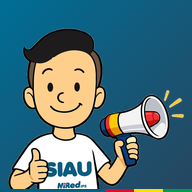
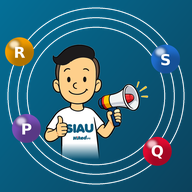
Menú móvil más ancho y sobre todo el contenido, mejor aprovechamiento de pantalla, íconos e imagen de la app con la mascota y las PQRS como planetas
Claude-Session: https://claude.ai/code/session_01UZqNQKJ9HuUnEShqkJ44x7

diff --git a/entrega/portal_index.html b/entrega/portal_index.html
@@ -4,7 +4,7 @@
 <meta charset="utf-8">
 <meta name="viewport" content="width=device-width, initial-scale=1, viewport-fit=cover">
 <meta name="color-scheme" content="light dark">
[2 lines of base64/hex data omitted]
 <link rel="apple-touch-icon" href="apple-touch-icon.png">
 <title>Gestión de PQRS · MiRed IPS</title>
 <script>
@@ -3666,6 +3666,7 @@ document.addEventListener("DOMContentLoaded", function(){
 <meta name="referrer" content="no-referrer">
 <meta name="robots" content="noindex,nofollow">
 <meta name="theme-color" content="#006081">
+<meta property="og:type" content="website"><meta property="og:title" content="Sistema de PQRS · SIAU MiRed IPS"><meta property="og:description" content="Radicación y gestión de peticiones, quejas, reclamos y sugerencias"><meta property="og:image" content="https://rivcarii.github.io/DEFINIDO/portal/og.png"><meta name="twitter:card" content="summary_large_image">
 <link rel="manifest" href="manifest.webmanifest">
 <link rel="apple-touch-icon" href="apple-touch-icon.png">
 <meta name="mobile-web-app-capable" content="yes"><meta name="apple-mobile-web-app-capable" content="yes"><meta name="apple-mobile-web-app-title" content="PQRS SIAU"><meta name="apple-mobile-web-app-status-bar-style" content="black-translucent">
@@ -3880,6 +3881,33 @@ html[data-tema="oscuro"] .kmini .ico,html[data-tema="oscuro"] .accion .ico{filte
 html[data-tema="oscuro"] .acceso-pie,html[data-tema="oscuro"] .acceso-marca{color:#fff}
 html[data-tema="oscuro"] .modal-fondo,html[data-tema="oscuro"] .velo{background:rgba(0,0,0,.6)}
 
+
+/* ===== v8.7.2 · menú lateral y proporciones en teléfonos ===== */
+.orb i,.solar b::after{background-image:radial-gradient(circle at 32% 26%,rgba(255,255,255,.60),rgba(255,255,255,0) 46%),radial-gradient(circle at 72% 80%,rgba(0,0,0,.30),rgba(0,0,0,0) 62%)}
+.orb i{box-shadow:inset -3px -4px 8px rgba(0,0,0,.22),0 8px 18px rgba(0,20,30,.30)}
+@media(max-width:1000px){
+  .lateral{z-index:96!important;left:max(8px,env(safe-area-inset-left,0px))!important;top:max(8px,env(safe-area-inset-top,0px))!important;bottom:max(8px,env(safe-area-inset-bottom,0px))!important;
+    width:min(400px,calc(100vw - 16px))!important;padding-top:18px;overflow-y:auto;-webkit-overflow-scrolling:touch}
+  .velo-lat{z-index:90!important}
+  html:has(.lateral.abierto) .top,html:has(.lateral.abierto) .tabbar,html:has(.lateral.abierto) .barra-guardar,html:has(.lateral.abierto) #cargaPill{opacity:0;pointer-events:none}
+  .lat-marca{padding:2px 6px 10px}.lat-marca .lockup{flex-wrap:nowrap;justify-content:flex-start;gap:12px}
+  .lat-marca .lockup .lk-mired{height:30px}.lat-marca .lockup .lk-calidad{height:36px}
+  #menu button{padding:12px 14px;font-size:16px}
+  /* más pantalla para el contenido */
+  main{padding-left:max(10px,env(safe-area-inset-left,0px))!important;padding-right:max(10px,env(safe-area-inset-right,0px))!important;padding-top:14px!important}
+  .top{margin-left:max(8px,env(safe-area-inset-left,0px))!important;margin-right:max(8px,env(safe-area-inset-right,0px))!important;top:max(8px,env(safe-area-inset-top,0px))!important}
+  .tabbar{left:max(10px,env(safe-area-inset-left,0px))!important;right:max(10px,env(safe-area-inset-right,0px))!important}
+  .card,.bi-card,.filtros{padding:14px}
+}
+@media(max-width:430px){
+  main{padding-left:max(8px,env(safe-area-inset-left,0px))!important;padding-right:max(8px,env(safe-area-inset-right,0px))!important}
+  h2.vista{font-size:25px}
+  .hero-saludo{padding:18px}
+}
+@media(min-width:701px) and (max-width:1000px){
+  main{max-width:900px;padding-left:20px!important;padding-right:20px!important}
+  .lateral{width:min(380px,50vw)!important}
+}
 @media(max-width:700px){#splash .sp-sistema{--d:120px}}
 @media(prefers-reduced-motion:reduce){html::after{animation:none}#splash .sp-mascota{animation:none}}
 </style>

diff --git a/portal/index.html b/portal/index.html
@@ -4,7 +4,7 @@
 <meta charset="utf-8">
 <meta name="viewport" content="width=device-width, initial-scale=1, viewport-fit=cover">
 <meta name="color-scheme" content="light dark">
[2 lines of base64/hex data omitted]
 <link rel="apple-touch-icon" href="apple-touch-icon.png">
 <title>Gestión de PQRS · MiRed IPS</title>
 <script>
@@ -3666,6 +3666,7 @@ document.addEventListener("DOMContentLoaded", function(){
 <meta name="referrer" content="no-referrer">
 <meta name="robots" content="noindex,nofollow">
 <meta name="theme-color" content="#006081">
+<meta property="og:type" content="website"><meta property="og:title" content="Sistema de PQRS · SIAU MiRed IPS"><meta property="og:description" content="Radicación y gestión de peticiones, quejas, reclamos y sugerencias"><meta property="og:image" content="https://rivcarii.github.io/DEFINIDO/portal/og.png"><meta name="twitter:card" content="summary_large_image">
 <link rel="manifest" href="manifest.webmanifest">
 <link rel="apple-touch-icon" href="apple-touch-icon.png">
 <meta name="mobile-web-app-capable" content="yes"><meta name="apple-mobile-web-app-capable" content="yes"><meta name="apple-mobile-web-app-title" content="PQRS SIAU"><meta name="apple-mobile-web-app-status-bar-style" content="black-translucent">
@@ -3880,6 +3881,33 @@ html[data-tema="oscuro"] .kmini .ico,html[data-tema="oscuro"] .accion .ico{filte
 html[data-tema="oscuro"] .acceso-pie,html[data-tema="oscuro"] .acceso-marca{color:#fff}
 html[data-tema="oscuro"] .modal-fondo,html[data-tema="oscuro"] .velo{background:rgba(0,0,0,.6)}
 
+
+/* ===== v8.7.2 · menú lateral y proporciones en teléfonos ===== */
+.orb i,.solar b::after{background-image:radial-gradient(circle at 32% 26%,rgba(255,255,255,.60),rgba(255,255,255,0) 46%),radial-gradient(circle at 72% 80%,rgba(0,0,0,.30),rgba(0,0,0,0) 62%)}
+.orb i{box-shadow:inset -3px -4px 8px rgba(0,0,0,.22),0 8px 18px rgba(0,20,30,.30)}
+@media(max-width:1000px){
+  .lateral{z-index:96!important;left:max(8px,env(safe-area-inset-left,0px))!important;top:max(8px,env(safe-area-inset-top,0px))!important;bottom:max(8px,env(safe-area-inset-bottom,0px))!important;
+    width:min(400px,calc(100vw - 16px))!important;padding-top:18px;overflow-y:auto;-webkit-overflow-scrolling:touch}
+  .velo-lat{z-index:90!important}
+  html:has(.lateral.abierto) .top,html:has(.lateral.abierto) .tabbar,html:has(.lateral.abierto) .barra-guardar,html:has(.lateral.abierto) #cargaPill{opacity:0;pointer-events:none}
+  .lat-marca{padding:2px 6px 10px}.lat-marca .lockup{flex-wrap:nowrap;justify-content:flex-start;gap:12px}
+  .lat-marca .lockup .lk-mired{height:30px}.lat-marca .lockup .lk-calidad{height:36px}
+  #menu button{padding:12px 14px;font-size:16px}
+  /* más pantalla para el contenido */
+  main{padding-left:max(10px,env(safe-area-inset-left,0px))!important;padding-right:max(10px,env(safe-area-inset-right,0px))!important;padding-top:14px!important}
+  .top{margin-left:max(8px,env(safe-area-inset-left,0px))!important;margin-right:max(8px,env(safe-area-inset-right,0px))!important;top:max(8px,env(safe-area-inset-top,0px))!important}
+  .tabbar{left:max(10px,env(safe-area-inset-left,0px))!important;right:max(10px,env(safe-area-inset-right,0px))!important}
+  .card,.bi-card,.filtros{padding:14px}
+}
+@media(max-width:430px){
+  main{padding-left:max(8px,env(safe-area-inset-left,0px))!important;padding-right:max(8px,env(safe-area-inset-right,0px))!important}
+  h2.vista{font-size:25px}
+  .hero-saludo{padding:18px}
+}
+@media(min-width:701px) and (max-width:1000px){
+  main{max-width:900px;padding-left:20px!important;padding-right:20px!important}
+  .lateral{width:min(380px,50vw)!important}
+}
 @media(max-width:700px){#splash .sp-sistema{--d:120px}}
 @media(prefers-reduced-motion:reduce){html::after{animation:none}#splash .sp-mascota{animation:none}}
 </style>

diff --git a/apps-script/Index.html b/apps-script/Index.html
@@ -4,7 +4,7 @@
 <meta charset="utf-8">
 <meta name="viewport" content="width=device-width, initial-scale=1, viewport-fit=cover">
 <meta name="color-scheme" content="light dark">
[2 lines of base64/hex data omitted]
 <link rel="apple-touch-icon" href="apple-touch-icon.png">
 <title>Gestión de PQRS · MiRed IPS</title>
 <script>
@@ -3869,6 +3869,33 @@ html[data-tema="oscuro"] .kmini .ico,html[data-tema="oscuro"] .accion .ico{filte
 html[data-tema="oscuro"] .acceso-pie,html[data-tema="oscuro"] .acceso-marca{color:#fff}
 html[data-tema="oscuro"] .modal-fondo,html[data-tema="oscuro"] .velo{background:rgba(0,0,0,.6)}
 
+
+/* ===== v8.7.2 · menú lateral y proporciones en teléfonos ===== */
+.orb i,.solar b::after{background-image:radial-gradient(circle at 32% 26%,rgba(255,255,255,.60),rgba(255,255,255,0) 46%),radial-gradient(circle at 72% 80%,rgba(0,0,0,.30),rgba(0,0,0,0) 62%)}
+.orb i{box-shadow:inset -3px -4px 8px rgba(0,0,0,.22),0 8px 18px rgba(0,20,30,.30)}
+@media(max-width:1000px){
+  .lateral{z-index:96!important;left:max(8px,env(safe-area-inset-left,0px))!important;top:max(8px,env(safe-area-inset-top,0px))!important;bottom:max(8px,env(safe-area-inset-bottom,0px))!important;
+    width:min(400px,calc(100vw - 16px))!important;padding-top:18px;overflow-y:auto;-webkit-overflow-scrolling:touch}
+  .velo-lat{z-index:90!important}
+  html:has(.lateral.abierto) .top,html:has(.lateral.abierto) .tabbar,html:has(.lateral.abierto) .barra-guardar,html:has(.lateral.abierto) #cargaPill{opacity:0;pointer-events:none}
+  .lat-marca{padding:2px 6px 10px}.lat-marca .lockup{flex-wrap:nowrap;justify-content:flex-start;gap:12px}
+  .lat-marca .lockup .lk-mired{height:30px}.lat-marca .lockup .lk-calidad{height:36px}
+  #menu button{padding:12px 14px;font-size:16px}
+  /* más pantalla para el contenido */
+  main{padding-left:max(10px,env(safe-area-inset-left,0px))!important;padding-right:max(10px,env(safe-area-inset-right,0px))!important;padding-top:14px!important}
+  .top{margin-left:max(8px,env(safe-area-inset-left,0px))!important;margin-right:max(8px,env(safe-area-inset-right,0px))!important;top:max(8px,env(safe-area-inset-top,0px))!important}
+  .tabbar{left:max(10px,env(safe-area-inset-left,0px))!important;right:max(10px,env(safe-area-inset-right,0px))!important}
+  .card,.bi-card,.filtros{padding:14px}
+}
+@media(max-width:430px){
+  main{padding-left:max(8px,env(safe-area-inset-left,0px))!important;padding-right:max(8px,env(safe-area-inset-right,0px))!important}
+  h2.vista{font-size:25px}
+  .hero-saludo{padding:18px}
+}
+@media(min-width:701px) and (max-width:1000px){
+  main{max-width:900px;padding-left:20px!important;padding-right:20px!important}
+  .lateral{width:min(380px,50vw)!important}
+}
 @media(max-width:700px){#splash .sp-sistema{--d:120px}}
 @media(prefers-reduced-motion:reduce){html::after{animation:none}#splash .sp-mascota{animation:none}}
 </style>

diff --git a/entrega/Index.html b/entrega/Index.html
@@ -4,7 +4,7 @@
 <meta charset="utf-8">
 <meta name="viewport" content="width=device-width, initial-scale=1, viewport-fit=cover">
 <meta name="color-scheme" content="light dark">
[2 lines of base64/hex data omitted]
 <link rel="apple-touch-icon" href="apple-touch-icon.png">
 <title>Gestión de PQRS · MiRed IPS</title>
 <script>
@@ -3869,6 +3869,33 @@ html[data-tema="oscuro"] .kmini .ico,html[data-tema="oscuro"] .accion .ico{filte
 html[data-tema="oscuro"] .acceso-pie,html[data-tema="oscuro"] .acceso-marca{color:#fff}
 html[data-tema="oscuro"] .modal-fondo,html[data-tema="oscuro"] .velo{background:rgba(0,0,0,.6)}
 
+
+/* ===== v8.7.2 · menú lateral y proporciones en teléfonos ===== */
+.orb i,.solar b::after{background-image:radial-gradient(circle at 32% 26%,rgba(255,255,255,.60),rgba(255,255,255,0) 46%),radial-gradient(circle at 72% 80%,rgba(0,0,0,.30),rgba(0,0,0,0) 62%)}
+.orb i{box-shadow:inset -3px -4px 8px rgba(0,0,0,.22),0 8px 18px rgba(0,20,30,.30)}
+@media(max-width:1000px){
+  .lateral{z-index:96!important;left:max(8px,env(safe-area-inset-left,0px))!important;top:max(8px,env(safe-area-inset-top,0px))!important;bottom:max(8px,env(safe-area-inset-bottom,0px))!important;
+    width:min(400px,calc(100vw - 16px))!important;padding-top:18px;overflow-y:auto;-webkit-overflow-scrolling:touch}
+  .velo-lat{z-index:90!important}
+  html:has(.lateral.abierto) .top,html:has(.lateral.abierto) .tabbar,html:has(.lateral.abierto) .barra-guardar,html:has(.lateral.abierto) #cargaPill{opacity:0;pointer-events:none}
+  .lat-marca{padding:2px 6px 10px}.lat-marca .lockup{flex-wrap:nowrap;justify-content:flex-start;gap:12px}
+  .lat-marca .lockup .lk-mired{height:30px}.lat-marca .lockup .lk-calidad{height:36px}
+  #menu button{padding:12px 14px;font-size:16px}
+  /* más pantalla para el contenido */
+  main{padding-left:max(10px,env(safe-area-inset-left,0px))!important;padding-right:max(10px,env(safe-area-inset-right,0px))!important;padding-top:14px!important}
+  .top{margin-left:max(8px,env(safe-area-inset-left,0px))!important;margin-right:max(8px,env(safe-area-inset-right,0px))!important;top:max(8px,env(safe-area-inset-top,0px))!important}
+  .tabbar{left:max(10px,env(safe-area-inset-left,0px))!important;right:max(10px,env(safe-area-inset-right,0px))!important}
+  .card,.bi-card,.filtros{padding:14px}
+}
+@media(max-width:430px){
+  main{padding-left:max(8px,env(safe-area-inset-left,0px))!important;padding-right:max(8px,env(safe-area-inset-right,0px))!important}
+  h2.vista{font-size:25px}
+  .hero-saludo{padding:18px}
+}
+@media(min-width:701px) and (max-width:1000px){
+  main{max-width:900px;padding-left:20px!important;padding-right:20px!important}
+  .lateral{width:min(380px,50vw)!important}
+}
 @media(max-width:700px){#splash .sp-sistema{--d:120px}}
 @media(prefers-reduced-motion:reduce){html::after{animation:none}#splash .sp-mascota{animation:none}}
 </style>

diff --git a/frontend/1_head_estilos.html b/frontend/1_head_estilos.html
@@ -4,7 +4,7 @@
 <meta charset="utf-8">
 <meta name="viewport" content="width=device-width, initial-scale=1, viewport-fit=cover">
 <meta name="color-scheme" content="light dark">
[2 lines of base64/hex data omitted]
 <link rel="apple-touch-icon" href="apple-touch-icon.png">
 <title>Gestión de PQRS · MiRed IPS</title>
 <script>

diff --git a/frontend/1b_temas_dispositivos.html b/frontend/1b_temas_dispositivos.html
@@ -204,6 +204,33 @@ html[data-tema="oscuro"] .kmini .ico,html[data-tema="oscuro"] .accion .ico{filte
 html[data-tema="oscuro"] .acceso-pie,html[data-tema="oscuro"] .acceso-marca{color:#fff}
 html[data-tema="oscuro"] .modal-fondo,html[data-tema="oscuro"] .velo{background:rgba(0,0,0,.6)}
 
+
+/* ===== v8.7.2 · menú lateral y proporciones en teléfonos ===== */
+.orb i,.solar b::after{background-image:radial-gradient(circle at 32% 26%,rgba(255,255,255,.60),rgba(255,255,255,0) 46%),radial-gradient(circle at 72% 80%,rgba(0,0,0,.30),rgba(0,0,0,0) 62%)}
+.orb i{box-shadow:inset -3px -4px 8px rgba(0,0,0,.22),0 8px 18px rgba(0,20,30,.30)}
+@media(max-width:1000px){
+  .lateral{z-index:96!important;left:max(8px,env(safe-area-inset-left,0px))!important;top:max(8px,env(safe-area-inset-top,0px))!important;bottom:max(8px,env(safe-area-inset-bottom,0px))!important;
+    width:min(400px,calc(100vw - 16px))!important;padding-top:18px;overflow-y:auto;-webkit-overflow-scrolling:touch}
+  .velo-lat{z-index:90!important}
+  html:has(.lateral.abierto) .top,html:has(.lateral.abierto) .tabbar,html:has(.lateral.abierto) .barra-guardar,html:has(.lateral.abierto) #cargaPill{opacity:0;pointer-events:none}
+  .lat-marca{padding:2px 6px 10px}.lat-marca .lockup{flex-wrap:nowrap;justify-content:flex-start;gap:12px}
+  .lat-marca .lockup .lk-mired{height:30px}.lat-marca .lockup .lk-calidad{height:36px}
+  #menu button{padding:12px 14px;font-size:16px}
+  /* más pantalla para el contenido */
+  main{padding-left:max(10px,env(safe-area-inset-left,0px))!important;padding-right:max(10px,env(safe-area-inset-right,0px))!important;padding-top:14px!important}
+  .top{margin-left:max(8px,env(safe-area-inset-left,0px))!important;margin-right:max(8px,env(safe-area-inset-right,0px))!important;top:max(8px,env(safe-area-inset-top,0px))!important}
+  .tabbar{left:max(10px,env(safe-area-inset-left,0px))!important;right:max(10px,env(safe-area-inset-right,0px))!important}
+  .card,.bi-card,.filtros{padding:14px}
+}
+@media(max-width:430px){
+  main{padding-left:max(8px,env(safe-area-inset-left,0px))!important;padding-right:max(8px,env(safe-area-inset-right,0px))!important}
+  h2.vista{font-size:25px}
+  .hero-saludo{padding:18px}
+}
+@media(min-width:701px) and (max-width:1000px){
+  main{max-width:900px;padding-left:20px!important;padding-right:20px!important}
+  .lateral{width:min(380px,50vw)!important}
+}
 @media(max-width:700px){#splash .sp-sistema{--d:120px}}
 @media(prefers-reduced-motion:reduce){html::after{animation:none}#splash .sp-mascota{animation:none}}
 </style>

diff --git a/portal/sw.js b/portal/sw.js
@@ -1,5 +1,5 @@
 /* Generado por tools/construir_portal.mjs · no editar a mano */
-var VERSION = "pqrs-5bc2471764";
+var VERSION = "pqrs-fb0adcc05e";
 var CASCARA = ["./", "index.html", "config.js", "manifest.webmanifest", "icon-192.png", "icon-512.png", "apple-touch-icon.png"];
 self.addEventListener("install", function (e) { e.waitUntil(caches.open(VERSION).then(function (c) { return c.addAll(CASCARA); }).then(function () { return self.skipWaiting(); })); });
 self.addEventListener("activate", function (e) {

diff --git a/tools/imagenes_pwa.py b/tools/imagenes_pwa.py
@@ -1,35 +1,82 @@
-"""Íconos de la app instalable (PWA) a partir de la mascota del SIAU. Uso: python3 tools/imagenes_pwa.py
-Genera assets/pwa/icon-192.png, icon-512.png e icon-maskable-512.png (zona segura del 80 %)."""
-import pathlib
-from PIL import Image, ImageDraw
+"""Imágenes de la app (íconos, favicon, imagen para compartir) con la mascota del SIAU y las PQRS como planetas que la orbitan.
+Uso: python3 tools/imagenes_pwa.py   (requiere Pillow)
+Genera en assets/pwa/: icon-192.png, icon-512.png, icon-maskable-512.png, apple-touch-icon.png (180), favicon.png (64), og.png (1200x630), imagen_app_1024.png"""
+import math, pathlib
+from PIL import Image, ImageDraw, ImageFilter, ImageFont
 
 R = pathlib.Path(__file__).resolve().parents[1]
+OUT = R / "assets" / "pwa"
 mas = Image.open(R / "assets" / "mascota" / "mascota_siau.png").convert("RGBA")
-busto = mas.crop((0, 0, mas.width, int(mas.height * 0.50)))          # cabeza, camiseta SIAU y megáfono
+busto = mas.crop((0, 0, mas.width, int(mas.height * 0.60)))               # cabeza, camiseta SIAU y megáfono
+_a = busto.split()[3]; _w, _h = busto.size                                  # el borde inferior se desvanece (sin corte seco)
+_g = Image.new("L", (_w, _h), 255); _gd = ImageDraw.Draw(_g)
+for _y in range(int(_h * .86), _h): _gd.line((0, _y, _w, _y), fill=int(255 * (1 - (_y - _h * .86) / (_h * .14))))
+from PIL import ImageChops
+busto.putalpha(ImageChops.multiply(_a, _g))
+FUENTE = "/usr/share/fonts/truetype/dejavu/DejaVuSans-Bold.ttf"
+PLANETAS = [("P", "#7B4FB8", 205, 0.40), ("Q", "#E20A31", 318, 0.43), ("R", "#F29D00", 150, 0.46), ("S", "#1F6FD1", 28, 0.41)]   # color de cada tipo, ángulo, radio de órbita
 
-def fondo(n):
-    im = Image.new("RGBA", (n, n))
+def fondo(w, h):
+    im = Image.new("RGBA", (w, h))
     px = im.load()
-    for y in range(n):
-        for x in range(n):
-            t = (x + y) / (2 * n)
-            px[x, y] = (int(0 + 2 * t * 20), int(110 - 40 * t), int(150 - 55 * t), 255)   # #006E96 → #004A5F
-    d = ImageDraw.Draw(im)
-    h = max(2, n // 64)                                                    # franja de la marca al pie
-    for i, c in enumerate(["#006081", "#E20A31", "#FEDC00", "#009C4D"]):
-        x0 = [0, 0.55, 0.70, 0.85][i] * n; x1 = [0.55, 0.70, 0.85, 1][i] * n
-        d.rectangle((x0, n - h, x1, n), fill=c)
+    for y in range(h):
+        for x in range(w):
+            t = (x / w * 0.55 + y / h * 0.45)
+            px[x, y] = (int(4 + 8 * t), int(112 - 46 * t), int(152 - 60 * t), 255)   # #04709A → #0C4A5C
     return im
 
-def icono(n, escala):
-    im = fondo(n)
-    alto = int(n * escala)
-    b = busto.resize((round(busto.width * alto / busto.height), alto), Image.LANCZOS)   # sin deformar
-    im.alpha_composite(b, ((n - b.width) // 2, n - b.height - max(2, n // 64)))
+def planeta(d, color, letra):
+    """Esfera con brillo y sombra, con la sigla de la PQRS."""
+    S = 4; n = d * S
+    base = Image.new("RGBA", (n, n), (0, 0, 0, 0))
+    m = Image.new("L", (n, n), 0); ImageDraw.Draw(m).ellipse((0, 0, n - 1, n - 1), fill=255)
+    cap = Image.new("RGBA", (n, n), color); base.paste(cap, (0, 0), m)
+    sombra = Image.new("RGBA", (n, n), (0, 0, 0, 0)); ImageDraw.Draw(sombra).ellipse((n * .18, n * .30, n * 1.25, n * 1.25), fill=(0, 0, 0, 70))
+    base.alpha_composite(Image.composite(sombra.filter(ImageFilter.GaussianBlur(n * .10)), Image.new("RGBA", (n, n), (0, 0, 0, 0)), m))
+    brillo = Image.new("RGBA", (n, n), (0, 0, 0, 0)); ImageDraw.Draw(brillo).ellipse((n * .12, n * .08, n * .52, n * .42), fill=(255, 255, 255, 190))
+    base.alpha_composite(Image.composite(brillo.filter(ImageFilter.GaussianBlur(n * .05)), Image.new("RGBA", (n, n), (0, 0, 0, 0)), m))
+    f = ImageFont.truetype(FUENTE, int(n * .52))
+    dr = ImageDraw.Draw(base); b = dr.textbbox((0, 0), letra, font=f)
+    dr.text(((n - (b[2] - b[0])) / 2 - b[0], (n - (b[3] - b[1])) / 2 - b[1] + n * .02), letra, font=f, fill="white")
+    return base.resize((d, d), Image.LANCZOS)
+
+def sistema(lienzo, cx, cy, u, mascota_h):
+    """Dibuja órbitas, mascota y planetas. u = unidad (alto del lienzo cuadrado)."""
+    d = ImageDraw.Draw(lienzo, "RGBA")
+    for r in (0.36, 0.41, 0.46):
+        rr = r * u; d.ellipse((cx - rr, cy - rr, cx + rr, cy + rr), outline=(255, 255, 255, 48), width=max(1, int(u / 190)))
+    b = busto.resize((round(busto.width * mascota_h / busto.height), round(mascota_h)), Image.LANCZOS)   # sin deformar
+    lienzo.alpha_composite(b, (round(cx - b.width / 2), round(cy - b.height / 2 + u * 0.03)))
+    pd = round(u * 0.15)
+    for letra, color, ang, rad in PLANETAS:
+        px = cx + math.cos(math.radians(ang)) * rad * u; py = cy - math.sin(math.radians(ang)) * rad * u
+        lienzo.alpha_composite(planeta(pd, color, letra), (round(px - pd / 2), round(py - pd / 2)))
+
+def icono(n, escala=1.0, redondo=False):
+    im = fondo(n, n)
+    sistema(im, n / 2, n / 2, n * escala, n * escala * 0.60)
+    if escala < 1:   # el resto del cuadrado ya es fondo: zona segura de los íconos «maskable»
+        pass
     return im
 
-out = R / "assets" / "pwa"
-icono(512, 0.84).save(out / "icon-512.png", optimize=True)
-icono(192, 0.84).save(out / "icon-192.png", optimize=True)
-icono(512, 0.74).save(out / "icon-maskable-512.png", optimize=True)
-print("íconos PWA en", out)
+def guardar(im, nombre, tam=None):
+    if tam: im = im.resize((tam, tam), Image.LANCZOS)
+    im.convert("RGBA").save(OUT / nombre, optimize=True)
+
+grande = icono(1024, 1.0)
+guardar(grande, "imagen_app_1024.png")
+guardar(grande, "icon-512.png", 512); guardar(grande, "icon-192.png", 192)
+guardar(grande, "apple-touch-icon.png", 180); guardar(grande, "favicon.png", 64)
+guardar(icono(1024, 0.80), "icon-maskable-512.png", 512)
+
+# Imagen para compartir el enlace (WhatsApp, correo): 1200 × 630
+og = fondo(1200, 630); d = ImageDraw.Draw(og, "RGBA")
+sistema(og, 935, 315, 520, 310)
+fg = ImageFont.truetype(FUENTE, 56); fp = ImageFont.truetype(FUENTE.replace("-Bold", ""), 25); fs = ImageFont.truetype(FUENTE, 22)
+d.text((70, 190), "Sistema de PQRS", font=fg, fill="white")
+d.text((70, 268), "Peticiones · Quejas · Reclamos · Sugerencias", font=fp, fill=(255, 255, 255, 215))
+d.text((70, 330), "SIAU · MiRed Barranquilla IPS", font=fs, fill=(254, 220, 0, 255))
+for i, c in enumerate(["#006081", "#E20A31", "#FEDC00", "#009C4D"]):
+    d.rectangle((i * 300, 618, i * 300 + 300, 630), fill=c)
+og.convert("RGB").save(OUT / "og.png", optimize=True)
+print("imágenes de la app en", OUT)
